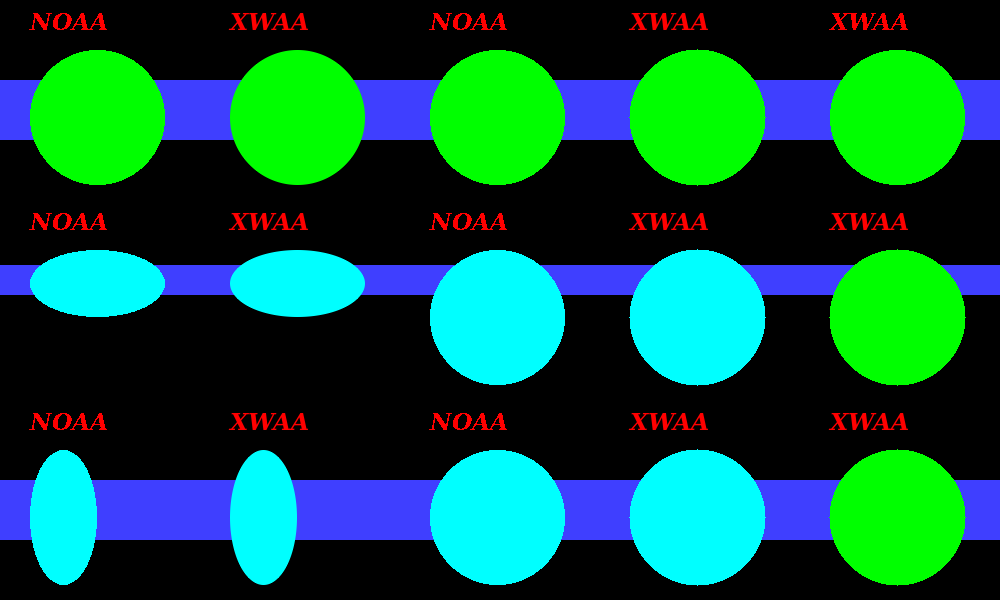
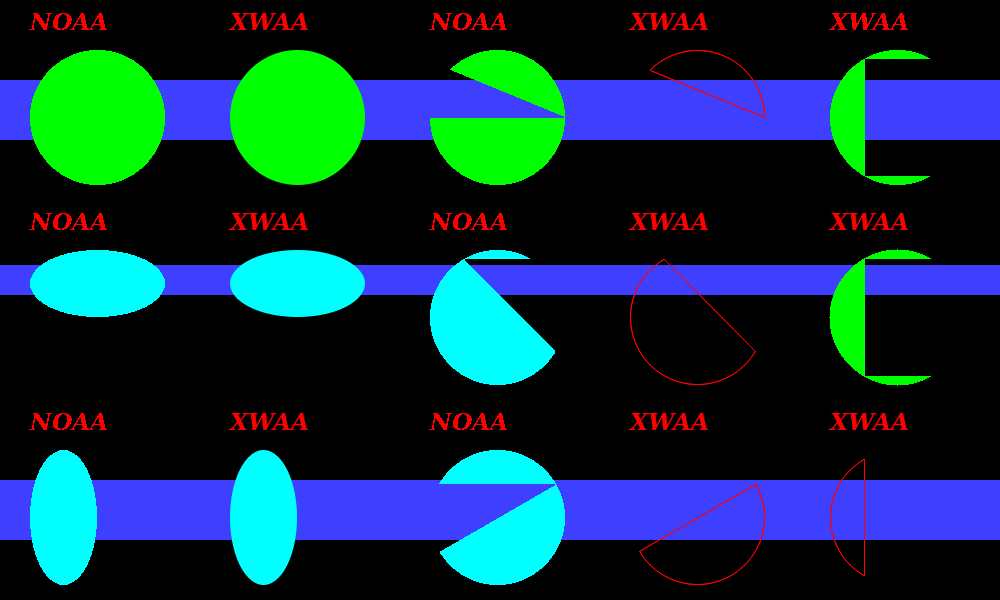
Working on fillArc() - chord mode

diff --git a/src/Pt-Gfx/ImagePainter2.cpp b/src/Pt-Gfx/ImagePainter2.cpp
@@ -393,6 +393,14 @@ void ImagePainter2::fillArc( const PointF& topLeft, const SizeF& size, float deg
 
 void ImagePainter2::drawOnePixelSolidEllipseArcImpl(const PointF& topLeft, const SizeF& size, float degBegin, float degEnd, const ArcMode& arcMode)
 {
+    // IMPORTANT NOTES:
+    //     * In Cartesian coordinate system, the Y coordinate goes from low to high,
+    //       from the middle axis (X) to the top
+    //     * In computer coordinate system, the Y coordinate goes from low to high,
+    //       from the top of the screen to the bottom
+    //     * This will cause addition and subtraction to be interchanged when calculating
+    //       for the Y coordinate using trigonometry
+
     // Shall we draw an ellipse or arc?
     const bool drawArc = (degBegin != 0) || (degEnd != 0);
 
@@ -421,10 +429,10 @@ void ImagePainter2::drawOnePixelSolidEllipseArcImpl(const PointF& topLeft, const
         while(degEnd >  360) degEnd -= 360;
         // Calculate the approximate coordinate of the point which is located at the begin angle
         bx = round(ctrX + radX * fastCos(degBegin * Pt::Pi / 180));
-        by = round(ctrY - radY * fastSin(degBegin * Pt::Pi / 180));
+        by = round(ctrY - radY * fastSin(degBegin * Pt::Pi / 180)); // See the notes on the beginning of this function
         // Calculate the approximate coordinate of the point which is located at the end angle
         ex = round(ctrX + radX * fastCos(degEnd   * Pt::Pi / 180));
-        ey = round(ctrY - radY * fastSin(degEnd   * Pt::Pi / 180));
+        ey = round(ctrY - radY * fastSin(degEnd   * Pt::Pi / 180)); // See the notes on the beginning of this function
     }
 
     // Top and bottom halves
@@ -693,6 +701,16 @@ void ImagePainter2::fillEllipseImplNoAA( const PointF& topLeft, const SizeF& siz
 
 void ImagePainter2::fillArcChordImpl(const PointF& topLeft, const SizeF& size, float degBegin, float degEnd)
 {
+    // IMPORTANT NOTES:
+    //     * In Cartesian coordinate system, the Y coordinate goes from low to high,
+    //       from the middle axis (X) to the top
+    //     * In computer coordinate system, the Y coordinate goes from low to high,
+    //       from the top of the screen to the bottom
+    //     * This will cause addition and subtraction to be reversed when calculating
+    //       for the Y coordinate using trigonometry
+    //     * This will also cause >= and < comparison operators to be interchanged when
+    //       determining quadrant using the Y coordinate
+
     // Ensure that the begin angle is within the acceptable range
     while(degBegin < -360) degBegin += 360;
     while(degBegin >  360) degBegin -= 360;
@@ -713,11 +731,11 @@ void ImagePainter2::fillArcChordImpl(const PointF& topLeft, const SizeF& size, f
 
     // Calculate the approximate coordinate of the point which is located at the begin angle
     const Pt::int32_t bx = round(ctrX + radX * fastCos(degBegin * Pt::Pi / 180));
-    const Pt::int32_t by = round(ctrY - radY * fastSin(degBegin * Pt::Pi / 180));
+    const Pt::int32_t by = round(ctrY - radY * fastSin(degBegin * Pt::Pi / 180)); // See the notes on the beginning of this function
 
     // Calculate the approximate coordinate of the point which is located at the end angle
     const Pt::int32_t ex = round(ctrX + radX * fastCos(degEnd   * Pt::Pi / 180));
-    const Pt::int32_t ey = round(ctrY - radY * fastSin(degEnd   * Pt::Pi / 180));
+    const Pt::int32_t ey = round(ctrY - radY * fastSin(degEnd   * Pt::Pi / 180)); // See the notes on the beginning of this function
 
     // Used for finding the exact coordinate of the points which are located at the begin and end angle
     Pt::int32_t x1 = 0, x1d = MAXIMUM_COORD;
@@ -977,15 +995,15 @@ void ImagePainter2::fillArcChordImpl(const PointF& topLeft, const SizeF& size, f
     // Determine the location of the begin and end points
     Pt::int32_t qBeg = 0, qEnd = 0;
 
-         if(x1 >= ctrX && y1 >= ctrY) qBeg = 1;
-    else if(x1 <  ctrX && y1 >= ctrY) qBeg = 2;
-    else if(x1 <  ctrX && y1 <  ctrY) qBeg = 3;
-    else if(x1 >= ctrX && y1 <  ctrY) qBeg = 4;
+         if(x1 >= ctrX && y1 <  ctrY) qBeg = 1; // See the notes on the beginning of this function
+    else if(x1 <  ctrX && y1 <  ctrY) qBeg = 2; // See the notes on the beginning of this function
+    else if(x1 <  ctrX && y1 >= ctrY) qBeg = 3; // See the notes on the beginning of this function
+    else if(x1 >= ctrX && y1 >= ctrY) qBeg = 4; // See the notes on the beginning of this function
 
-         if(x2 >= ctrX && y2 >= ctrY) qEnd = 1;
-    else if(x2 <  ctrX && y2 >= ctrY) qEnd = 2;
-    else if(x2 <  ctrX && y2 <  ctrY) qEnd = 3;
-    else if(x2 >= ctrX && y2 <  ctrY) qEnd = 4;
+         if(x2 >= ctrX && y2 <  ctrY) qEnd = 1; // See the notes on the beginning of this function
+    else if(x2 <  ctrX && y2 <  ctrY) qEnd = 2; // See the notes on the beginning of this function
+    else if(x2 <  ctrX && y2 >= ctrY) qEnd = 3; // See the notes on the beginning of this function
+    else if(x2 >= ctrX && y2 >= ctrY) qEnd = 4; // See the notes on the beginning of this function
 
     // Determine where the direction that the hole faces to
     enum ChordHoleDir {
@@ -1007,9 +1025,104 @@ void ImagePainter2::fillArcChordImpl(const PointF& topLeft, const SizeF& size, f
                  (qBeg == 3 && qEnd == 3) || (qBeg == 3 && qEnd == 4) ) chd = Right;
     }
 
-    //if(chd == Invalid) lprintf("%d %d\n", qBeg, qEnd);
+    lprintf("%d %d : %d\n", qBeg, qEnd, chd);
+
+
 
     // Crop the spans using the closing line
+
+    //scanlines.erase(scanlines.begin(), scanlines.lower_bound(std::min(y1, y2)));
+    //scanlines.erase(scanlines.lower_bound(std::max(y1, y2)), scanlines.end());
+
+
+
+
+    // Convert the coordinates to fixed-points
+    Pt::int32_t fx1 = FIXED_POINT_FROM_INT(x1);
+    Pt::int32_t fy1 = FIXED_POINT_FROM_INT(y1);
+    Pt::int32_t fx2 = FIXED_POINT_FROM_INT(x2);
+    Pt::int32_t fy2 = FIXED_POINT_FROM_INT(y2);
+
+    // Swap the values as needed
+    const Pt::int32_t deltaX = (fx2 >= fx1) ? (fx2 - fx1) : (fx1 - fx2);
+    const Pt::int32_t deltaY = (fy2 >= fy1) ? (fy2 - fy1) : (fy1 - fy2);
+    const bool        steep  = deltaY > deltaX;
+
+    if(steep) {
+        std::swap(fx1, fy1);
+        std::swap(fx2, fy2);
+    }
+
+    if(fx1 > fx2) {
+        std::swap(fx1, fx2);
+        std::swap(fy1, fy2);
+    }
+
+    // Handle the gradient, starting point, and ending point
+    const Pt::int32_t grad = (fy2 - fy1) / FIXED_POINT_TO_INT(fx2 - fx1);
+    const Pt::int32_t xpxl1 = FIXED_POINT_ROUND(fx1);
+    const Pt::int32_t xpxl2 = FIXED_POINT_ROUND(fx2);
+    const Pt::int32_t ypxl  = fy1 + grad * FIXED_POINT_TO_INT(xpxl1 - fx1);
+
+    // Draw the pixels
+    Pt::int32_t from  = FIXED_POINT_TO_INT(FIXED_POINT_ROUND(fx1));
+    Pt::int32_t to    = FIXED_POINT_TO_INT(xpxl2);
+    Pt::int32_t ypxli = ypxl;
+
+    if(steep) {
+        // Draw the pixels
+        for(Pt::int32_t i = from; i <= to; ++i) {
+            // Calculate the coordinates
+            Pt::int32_t refXl = FIXED_POINT_TO_INT(FIXED_POINT_IPART(ypxli)                           );
+            Pt::int32_t refXr = FIXED_POINT_TO_INT(FIXED_POINT_IPART(ypxli) + FIXED_POINT_CONSTANT_ONE);
+            Pt::int32_t refY  = i;
+            ypxli += grad;
+            //
+            Scanlines::iterator it = scanlines.find(refY);
+            if(it == scanlines.end()) continue;
+
+            switch(chd) {
+                case Left   : if(it->second.from < refXr) it->second.from = refXr; break;
+                case Right  : if(it->second.to   > refXl) it->second.to   = refXl; break;
+              //  case Top    : scanlines.erase(it); break;
+              //  case Bottom : scanlines.erase(it); break;
+                default     : break;
+            }
+        }
+    }
+    else {
+        // Draw the pixels
+        for(Pt::int32_t i = from; i <= to; ++i) {
+            // Calculate the coordinates
+            Pt::int32_t refX  = i;
+            Pt::int32_t refYt = FIXED_POINT_TO_INT(FIXED_POINT_IPART(ypxli)                           );
+            Pt::int32_t refYb = FIXED_POINT_TO_INT(FIXED_POINT_IPART(ypxli) + FIXED_POINT_CONSTANT_ONE);
+            ypxli += grad;
+            //
+            Scanlines::iterator itt = scanlines.find(refYt);
+            if(itt != scanlines.end()) {
+                switch(chd) {
+                    case Left   : if(itt->second.from < refX) itt->second.from = refX; break;
+                    case Right  : if(itt->second.to   > refX) itt->second.to   = refX; break;
+                   // case Top    : scanlines.erase(itt); break;
+                    //case Bottom : scanlines.erase(itt); break;
+                    default     : break;
+                }
+            }
+            Scanlines::iterator itb = scanlines.find(refYb);
+            if(itb != scanlines.end()) {
+                switch(chd) {
+                    case Left   : if(itb->second.from < refX) itb->second.from = refX; break;
+                    case Right  : if(itb->second.to   > refX) itb->second.to   = refX; break;
+                  //  case Top    : scanlines.erase(itb); break;
+                  //  case Bottom : scanlines.erase(itb); break;
+                    default     : break;
+                }
+            }
+        }
+    }
+
+
 
     // Draw the scanlines
     for(Scanlines::const_iterator it = scanlines.begin(); it != scanlines.end(); ++it) {

diff --git a/src/Pt-Gfx/tests/ImagePainterTest2_Draw_Filled.cpp b/src/Pt-Gfx/tests/ImagePainterTest2_Draw_Filled.cpp
@@ -201,7 +201,7 @@ static void testDrawFillEllipse(const char* title, Image& image, Painter& painte
         ip2->drawText( PointF(30 + 400, 30), "NOAA" );
 
         ip2->setAntiAliasingMode(AntiAliasingMode::Fastest);
-        ip2->fillArc( PointF (30 + 600, 50), SizeF(135, 135), 0, 135, ArcMode::Chord/*Pie*/ );
+        ip2->drawArc( PointF (30 + 600, 50), SizeF(135, 135), 0, 135, ArcMode::Chord/*Pie*/ );
         ip2->drawText( PointF(30 + 600, 30), "XWAA" );
     }
 
@@ -222,7 +222,7 @@ static void testDrawFillEllipse(const char* title, Image& image, Painter& painte
         ip2->drawText( PointF(30 + 400, 30 + 200), "NOAA" );
 
         ip2->setAntiAliasingMode(AntiAliasingMode::Fastest);
-        ip2->fillArc( PointF (30 + 600, 50 + 200), SizeF(135, 135), 120, 330, ArcMode::Chord/*Pie*/ );
+        ip2->drawArc( PointF (30 + 600, 50 + 200), SizeF(135, 135), 120, 330, ArcMode::Chord/*Pie*/ );
         ip2->drawText( PointF(30 + 600, 30 + 200), "XWAA" );
     }
 
@@ -239,11 +239,11 @@ static void testDrawFillEllipse(const char* title, Image& image, Painter& painte
 
     if(ip2) {
         ip2->setAntiAliasingMode(AntiAliasingMode::None);
-        ip2->fillArc( PointF (30 + 400, 50 + 400), SizeF(135, 135), 120, 330, ArcMode::Chord/*Pie*/ );
+        ip2->fillArc( PointF (30 + 400, 50 + 400), SizeF(135, 135), -150, 30, ArcMode::Chord/*Pie*/ );
         ip2->drawText( PointF(30 + 400, 30 + 400), "NOAA" );
 
         ip2->setAntiAliasingMode(AntiAliasingMode::Fastest);
-        ip2->fillArc( PointF (30 + 600, 50 + 400), SizeF(135, 135), 120, 330, ArcMode::Chord/*Pie*/ );
+        ip2->drawArc( PointF (30 + 600, 50 + 400), SizeF(135, 135), -150, 30, ArcMode::Chord/*Pie*/ );
         ip2->drawText( PointF(30 + 600, 30 + 400), "XWAA" );
     }
 
@@ -260,7 +260,7 @@ static void testDrawFillEllipse(const char* title, Image& image, Painter& painte
         ip2->drawText( PointF(30 + 800, 30 + 200), "XWAA" );
 
         ip2->setAntiAliasingMode(AntiAliasingMode::Fastest);
-        ip2->fillArc( PointF (30 + 800, 50 + 400), SizeF(135, 135), 120, 240, ArcMode::Chord/*Pie*/ );
+        ip2->drawArc( PointF (30 + 800, 50 + 400), SizeF(135, 135), 120, 240, ArcMode::Chord/*Pie*/ );
         ip2->drawText( PointF(30 + 800, 30 + 400), "XWAA" );
     }
 
